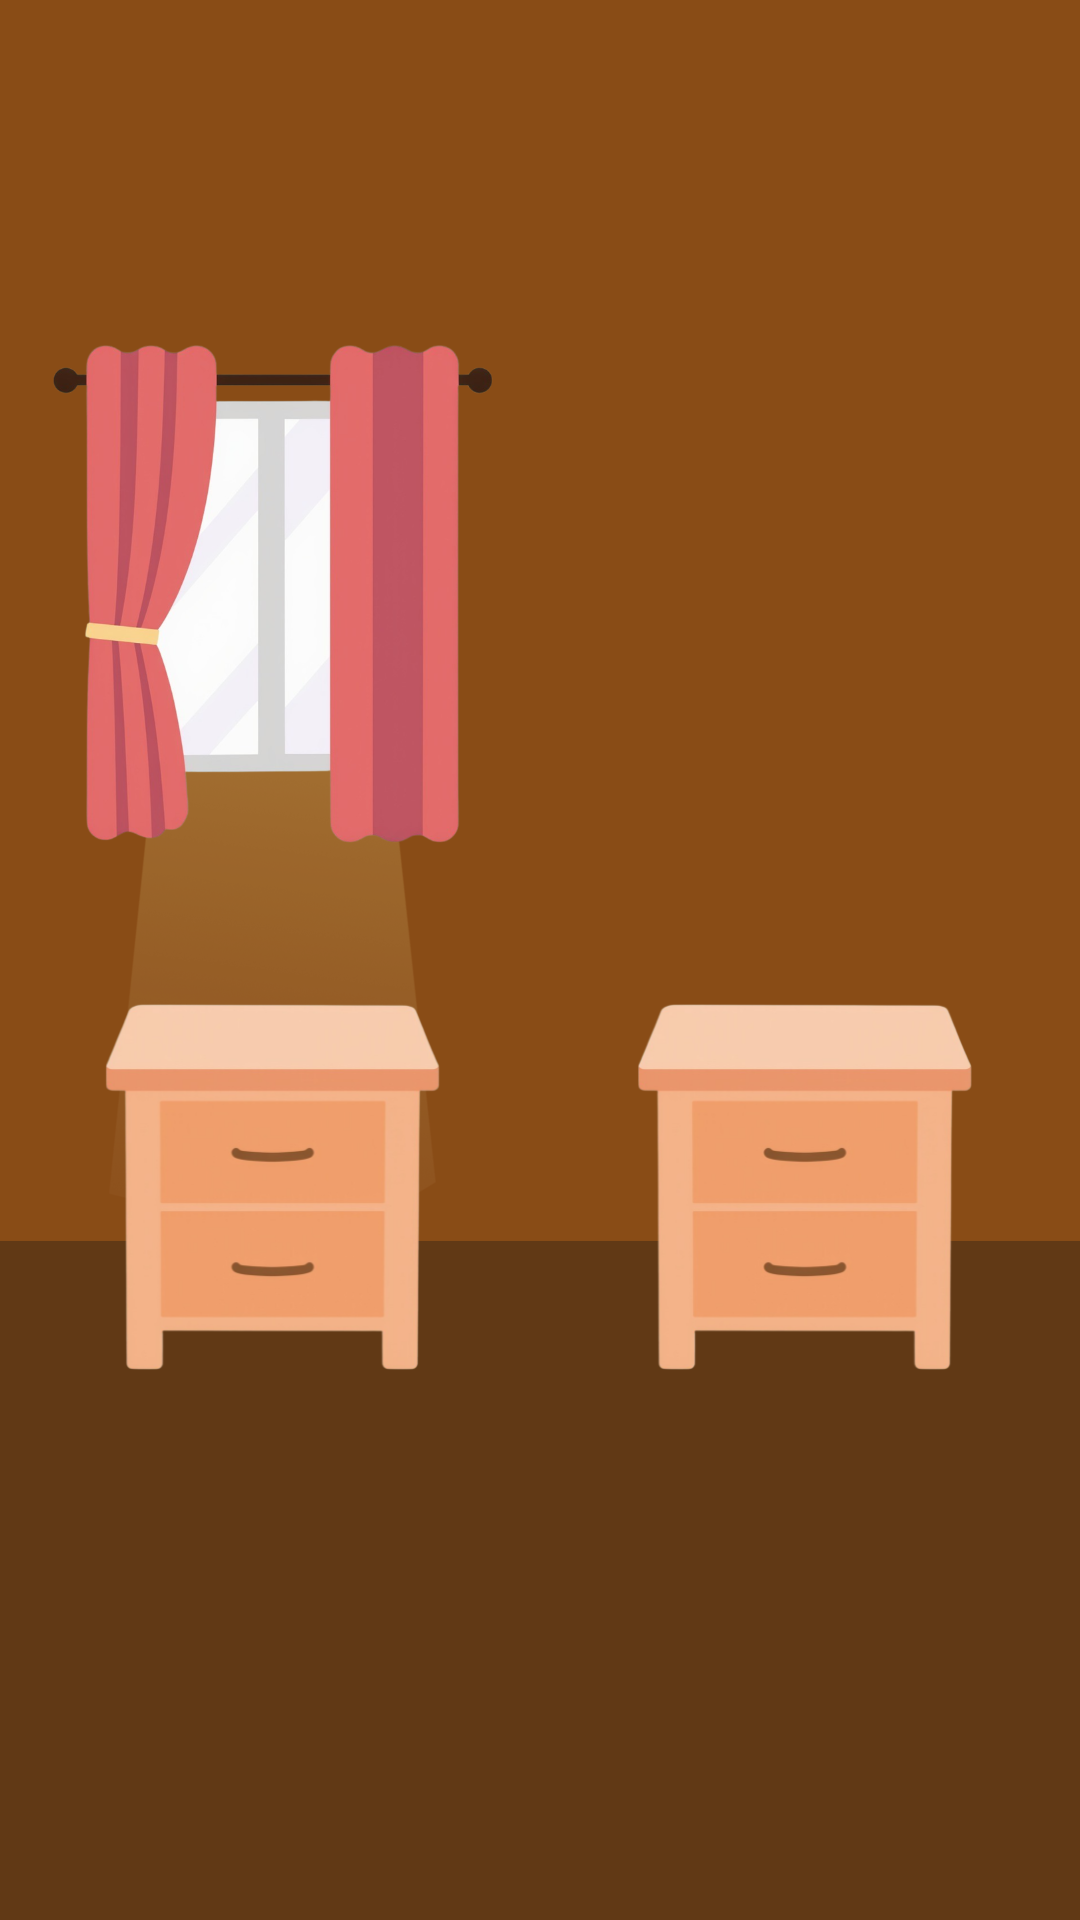
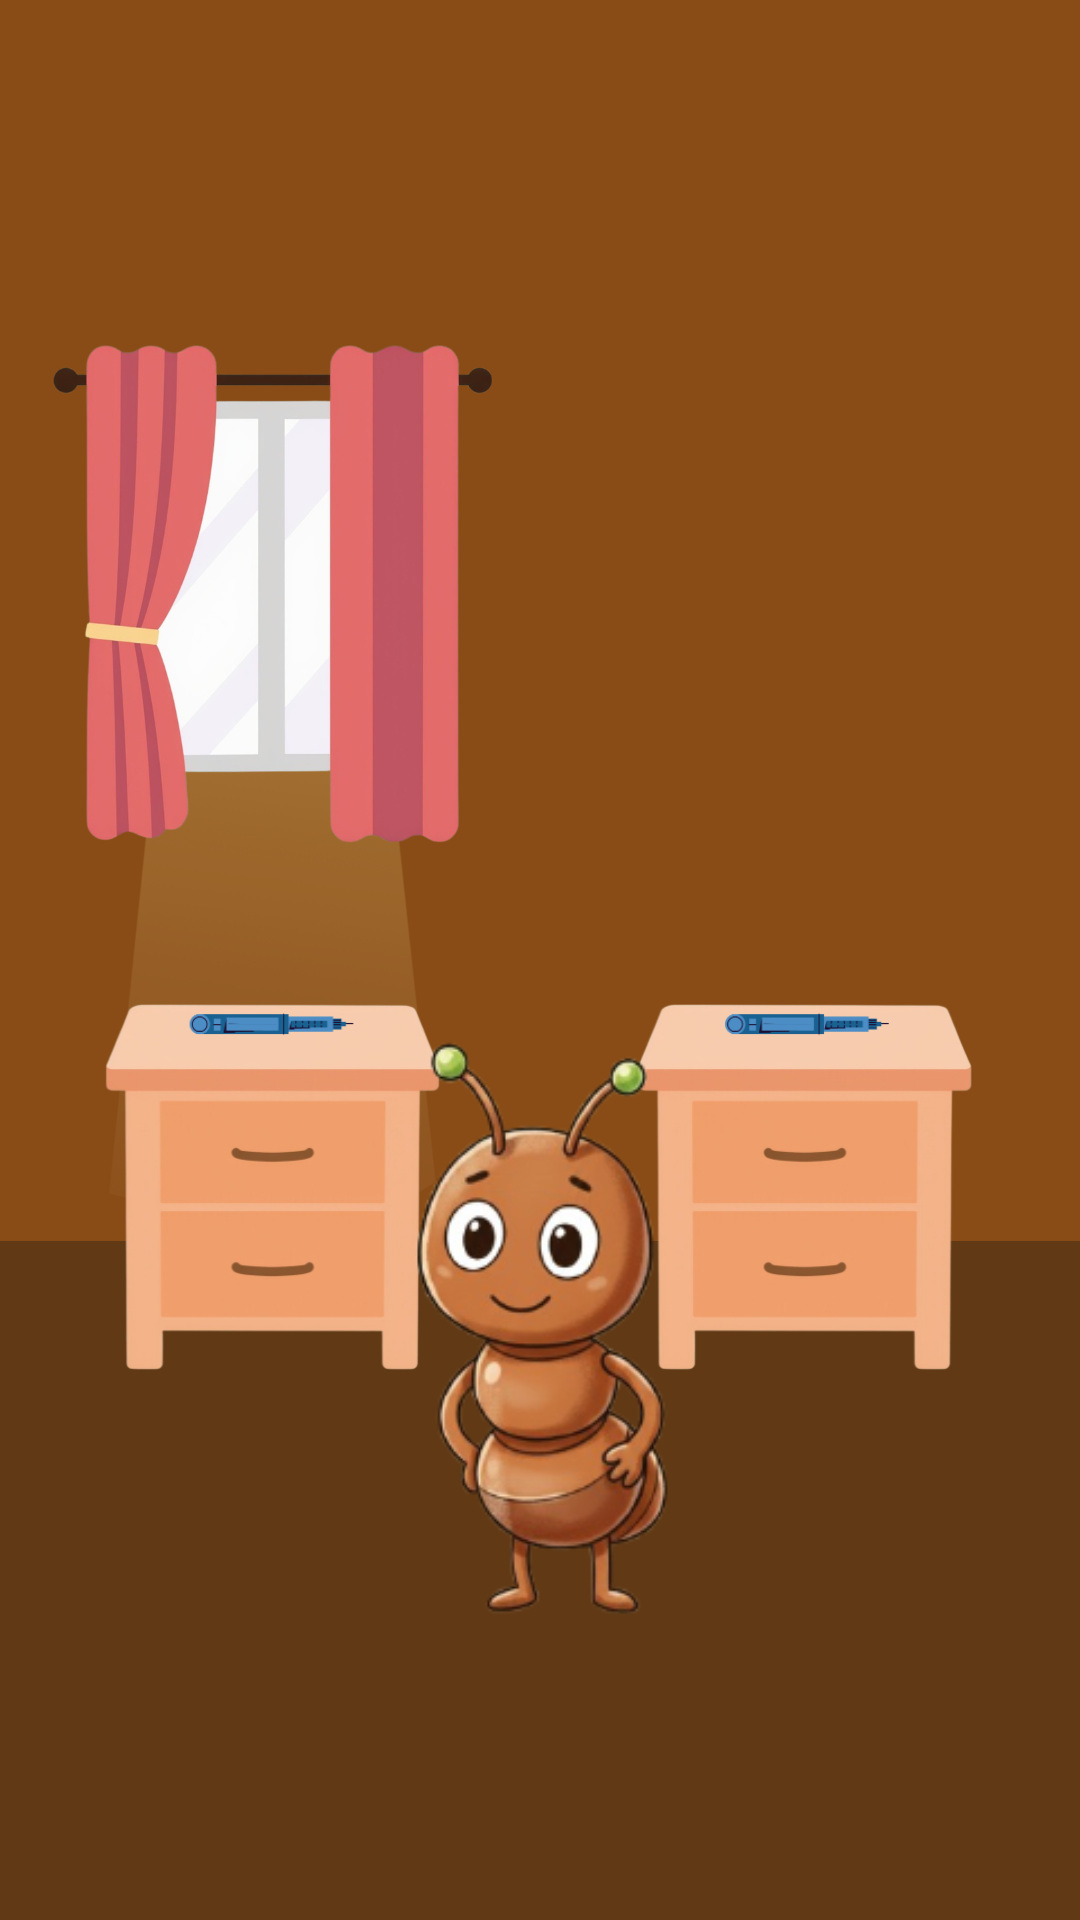
fix: correção da responsividade em algumas telas

Changed region(s): [[0.3667, 0.5312, 0.6111, 0.8438], [0.6722, 0.5312, 0.825, 0.5625], [0.1833, 0.5312, 0.3056, 0.5625]]

diff --git a/app/modulos/medicamentos/index.tsx b/app/modulos/medicamentos/index.tsx
@@ -93,11 +93,10 @@ export default function MedicamentosScreen() {
     );
   }
 
-  // FASE 2: ARMAZENAMENTO (CENA DO QUARTO)
+  // FASE 2: ARMAZENAMENTO (CENA DO QUARTO - AGORA COM IMAGEM ÚNICA E HITBOXES)
   if (phase === 'storage') {
     return (
       <View style={styles.storageWrapper}>
-        {/* TRUQUE DO FUNDO DUPLO PARA PREENCHER A TELA */}
         <View style={styles.topBackground} />
         <View style={styles.bottomBackground} />
 
@@ -118,15 +117,12 @@ export default function MedicamentosScreen() {
           </Text>
 
           <View style={styles.interactiveArea}>
-            <Image
-              source={require('@/assets/images/Glicemilton_feliz.png')}
-              style={styles.storageCharacterImage}
-              resizeMode="contain"
-            />
-
-            {/* CANETA NO SOL (Errado) */}
+            {/* HITBOX DA ESQUERDA - Criado-mudo no Sol (Errado) */}
             <TouchableOpacity
-              style={[styles.penButton, { top: '50%', left: '13%' }]}
+              style={[
+                styles.invisibleButton,
+                { top: '48%', left: '10%', width: '28%', height: '18%' },
+              ]}
               onPress={() =>
                 showFeedback(
                   false,
@@ -134,18 +130,14 @@ export default function MedicamentosScreen() {
                   'O calor e o contato direto com o sol podem estragar a insulina. Tente novamente!'
                 )
               }
-              activeOpacity={0.7}
-            >
-              <Image
-                source={require('@/assets/images/insulina.png')}
-                style={styles.penImage}
-                resizeMode="contain"
-              />
-            </TouchableOpacity>
+            />
 
-            {/* CANETA NA SOMBRA (Certo) */}
+            {/* HITBOX DA DIREITA - Criado-mudo na Sombra (Certo) */}
             <TouchableOpacity
-              style={[styles.penButton, { top: '50%', right: '15%' }]}
+              style={[
+                styles.invisibleButton,
+                { top: '48%', right: '12%', width: '28%', height: '18%' },
+              ]}
               onPress={() =>
                 showFeedback(
                   true,
@@ -153,15 +145,9 @@ export default function MedicamentosScreen() {
                   'Você escolheu o local correto! A caneta em uso deve ficar protegida da luz solar e do calor excessivo.'
                 )
               }
-              activeOpacity={0.7}
-            >
-              <Image
-                source={require('@/assets/images/insulina.png')}
-                style={styles.penImage}
-                resizeMode="contain"
-              />
-            </TouchableOpacity>
+            />
           </View>
+
           <FeedbackModal
             visible={feedbackVisible}
             data={feedbackData}
@@ -172,7 +158,7 @@ export default function MedicamentosScreen() {
     );
   }
 
-  // FASE 3: LOCAIS DE APLICAÇÃO (CENA DA COZINHA)
+  // FASE 3: LOCAIS DE APLICAÇÃO (CENA DA COZINHA - CANETA REMOVIDA)
   if (phase === 'application') {
     return (
       <ImageBackground
@@ -192,10 +178,10 @@ export default function MedicamentosScreen() {
         </Text>
 
         <View style={styles.interactiveArea}>
-          {/* ÁREA DE ERRO GIGANTE (Fica no fundo, capturando qualquer clique errado) */}
+          {/* ÁREA DE ERRO GIGANTE */}
           <TouchableOpacity
             style={styles.wrongAreaFull}
-            activeOpacity={1} // Impede que a tela inteira pisque ao clicar
+            activeOpacity={1}
             onPress={() =>
               showFeedback(
                 false,
@@ -205,7 +191,7 @@ export default function MedicamentosScreen() {
             }
           />
 
-          {/* ÁREAS CORRETAS (Ficam por cima, interceptando os cliques certos) */}
+          {/* ÁREAS CORRETAS MAPPED EM CIMA DA SUA NOVA IMAGEM INTEGRADA */}
           <TouchableOpacity // Braço Esquerdo
             style={[
               styles.invisibleButton,
@@ -264,12 +250,6 @@ export default function MedicamentosScreen() {
                 'As coxas são locais seguros e muito usados para aplicar a insulina.'
               )
             }
-          />
-
-          <Image
-            source={require('@/assets/images/insulina.png')}
-            style={styles.applicationPenImage}
-            resizeMode="contain"
           />
         </View>
 
@@ -342,7 +322,7 @@ function FeedbackModal({ visible, data, onClose }: FeedbackModalProps) {
   );
 }
 
-// ==================== ESTILOS ====================
+// ==================== ESTILOS LIMPOS ====================
 const styles = StyleSheet.create({
   background: {
     flex: 1,
@@ -382,8 +362,8 @@ const styles = StyleSheet.create({
   interactiveArea: { flex: 1, width: '100%', position: 'relative' },
   invisibleButton: {
     position: 'absolute',
-    zIndex: 30, // Nível 20 (frente): Botões corretos
-    //backgroundColor: 'rgba(255, 0, 0, 0.5)', // trecho para testar
+    zIndex: 30,
+    //backgroundColor: 'rgba(255, 0, 0, 0.4)', // Descomente para calibrar os tamanhos das novas hitboxes!
   },
   wrongAreaFull: {
     position: 'absolute',
@@ -391,8 +371,8 @@ const styles = StyleSheet.create({
     bottom: '10%',
     left: '28%',
     right: '18%',
-    zIndex: 10, // Nível 10 (fundo): Botão de erro que cobre a tela toda
-    // backgroundColor: 'rgba(29, 168, 76, 0.5)', // trecho para teste
+    zIndex: 10,
+    //backgroundColor: 'rgba(80, 250, 29, 0.4)',
   },
 
   storageWrapper: {
@@ -405,37 +385,16 @@ const styles = StyleSheet.create({
     top: 0,
     left: 0,
     right: 0,
-    bottom: '50%', // Ocupa exatamente a metade de cima
+    bottom: '50%',
     backgroundColor: '#894C16',
   },
   bottomBackground: {
     position: 'absolute',
-    top: '50%', // Começa da metade para baixo
+    top: '50%',
     left: 0,
     right: 0,
     bottom: 0,
     backgroundColor: '#613915',
-  },
-  storageCharacterImage: {
-    position: 'absolute',
-    bottom: '19%',
-    left: '-11%',
-    width: 500,
-    height: 400,
-    zIndex: 15,
-  },
-  penButton: {
-    position: 'absolute',
-    width: 90,
-    height: 40,
-    justifyContent: 'center',
-    alignItems: 'center',
-    zIndex: 20,
-  },
-  penImage: {
-    width: 150,
-    height: 150,
-    transform: [{ rotate: '-90deg' }],
   },
 
   modalOverlay: {
@@ -537,14 +496,4 @@ const styles = StyleSheet.create({
     elevation: 4,
   },
   emojiTrophy: { fontSize: 64 },
-
-  applicationPenImage: {
-    position: 'absolute',
-    top: '51%',
-    left: '5%',
-    width: 150,
-    height: 220,
-    zIndex: 15,
-    transform: [{ rotate: '-165deg' }],
-  },
 });